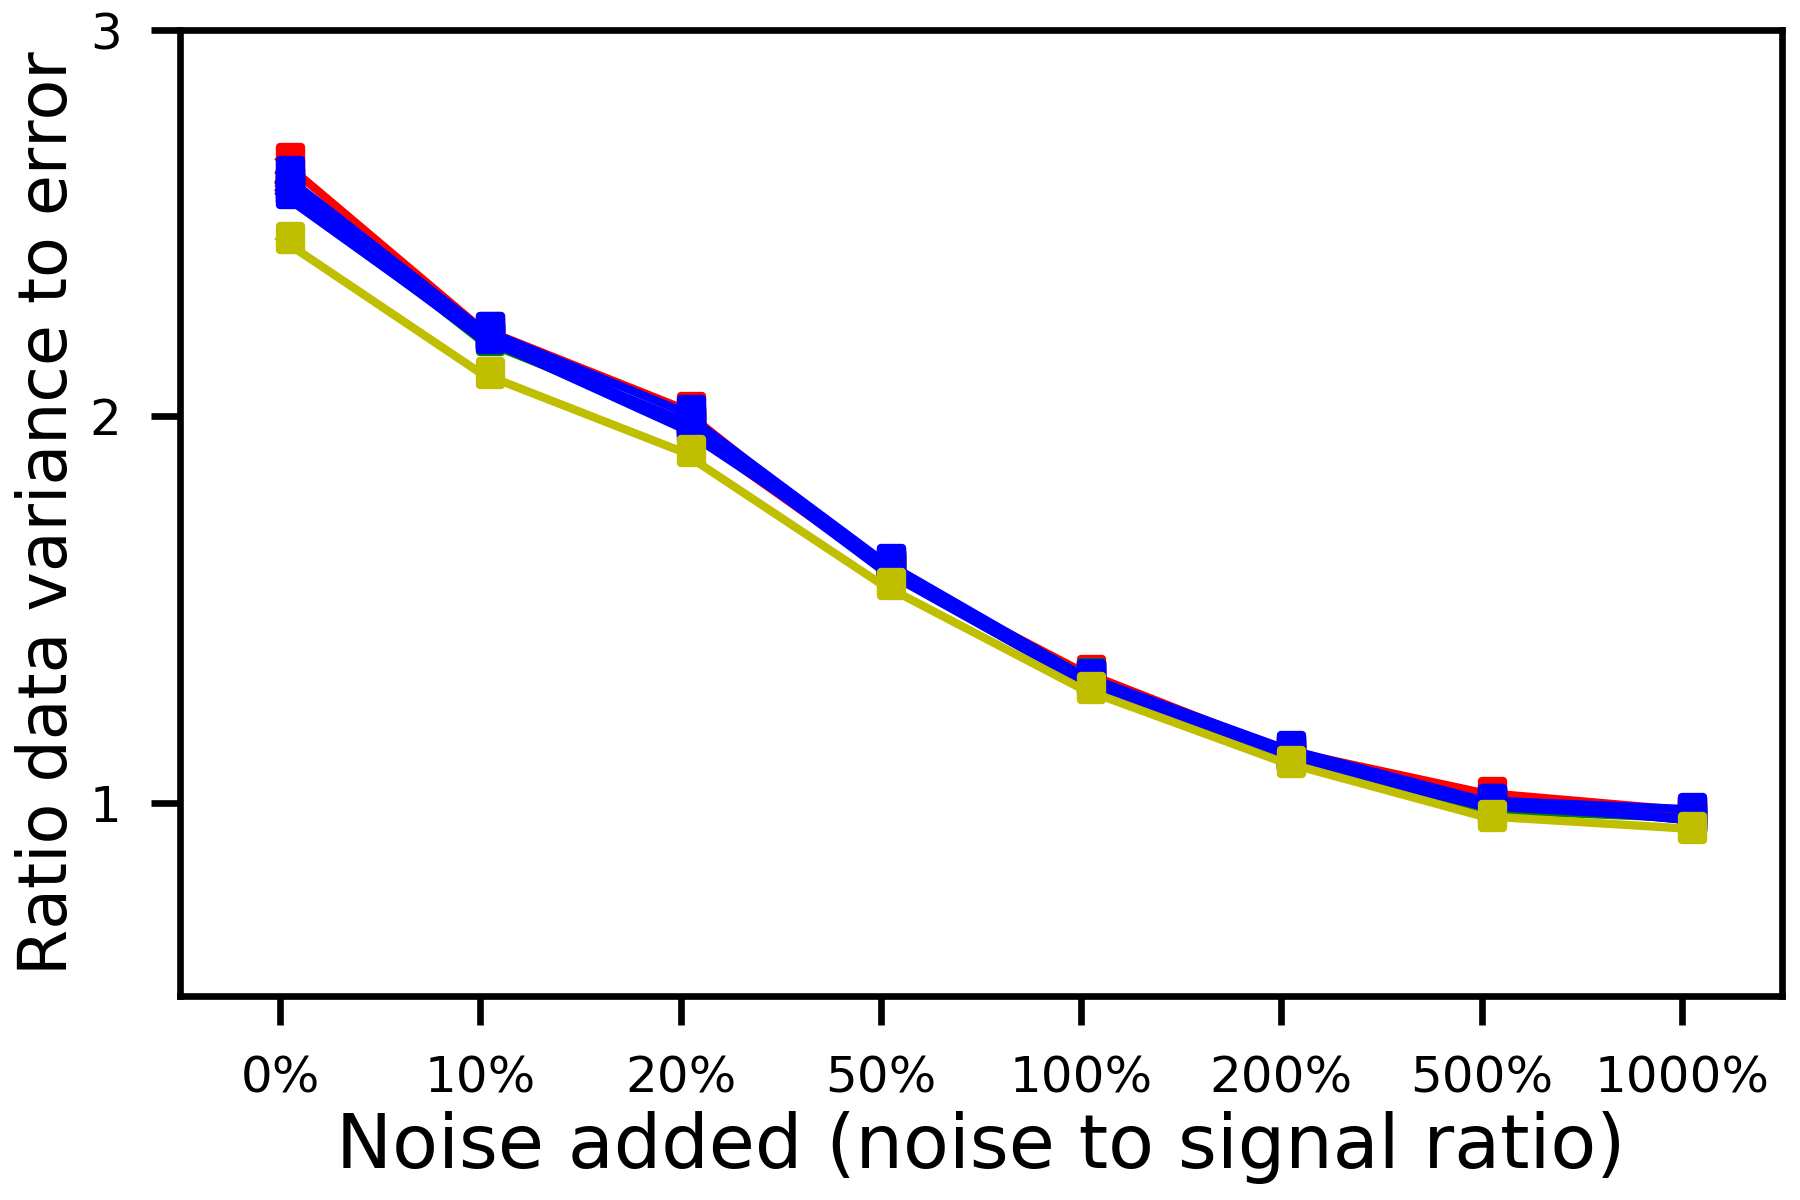
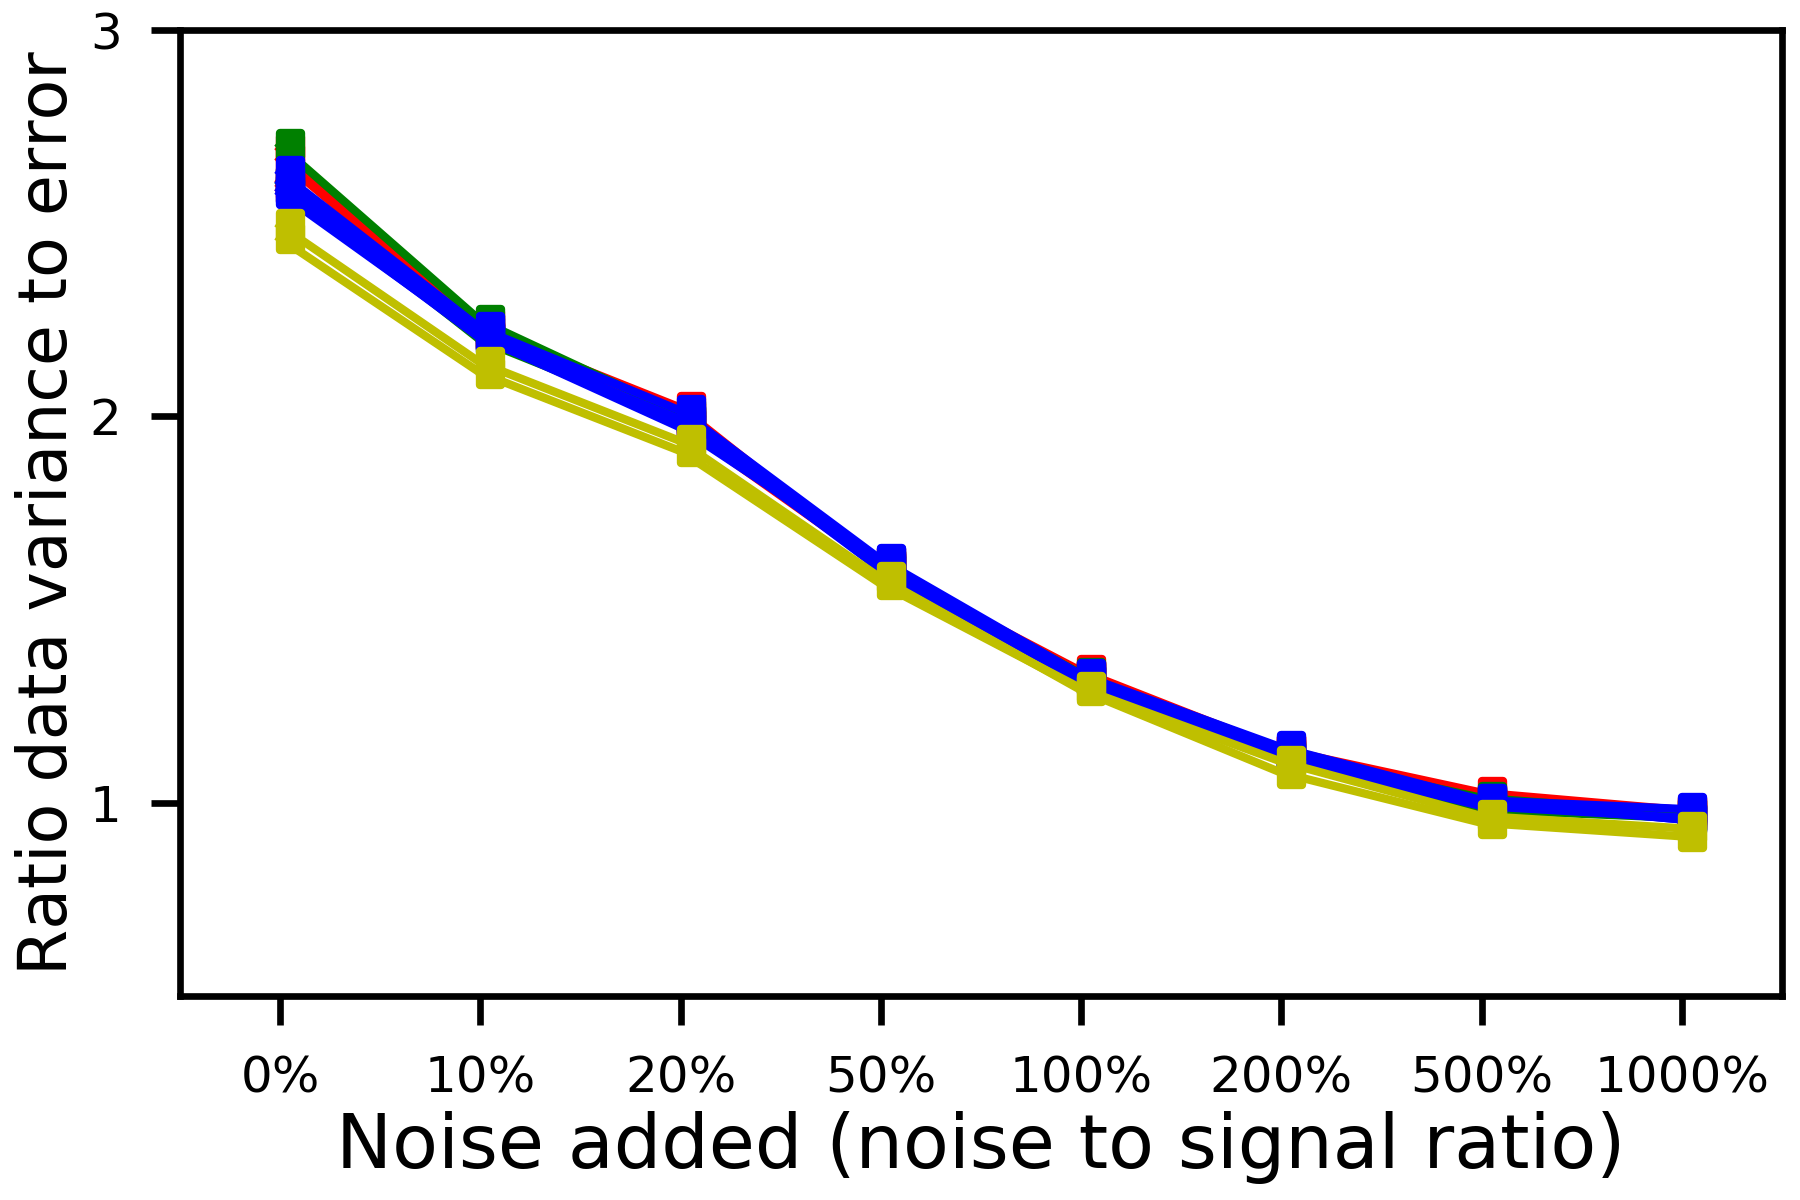
Finished running noise experiments on GDSC.

diff --git a/experiments/noise/drug_sensitivity_gdsc/plots/plot_noise_bar.py b/experiments/noise/drug_sensitivity_gdsc/plots/plot_noise_bar.py
@@ -34,30 +34,30 @@ ggg = eval(open(folder_results+'performances_gaussian_gaussian.txt','r').read())
 gggu = eval(open(folder_results+'performances_gaussian_gaussian_univariate.txt','r').read())
 gggw = eval(open(folder_results+'performances_gaussian_gaussian_wishart.txt','r').read())
 ggga = eval(open(folder_results+'performances_gaussian_gaussian_ard.txt','r').read())
-#gvg = eval(open(folder_results+'performances_gaussian_gaussian_volumeprior.txt','r').read())
-#gvng = eval(open(folder_results+'performances_gaussian_gaussian_volumeprior_nonnegative.txt','r').read())
+gvg = eval(open(folder_results+'performances_gaussian_gaussian_volumeprior.txt','r').read())
+gvng = eval(open(folder_results+'performances_gaussian_gaussian_volumeprior_nonnegative.txt','r').read())
 geg = eval(open(folder_results+'performances_gaussian_gaussian_exponential.txt','r').read())
 gee = eval(open(folder_results+'performances_gaussian_exponential.txt','r').read())
 geea = eval(open(folder_results+'performances_gaussian_exponential_ard.txt','r').read())
 gtt = eval(open(folder_results+'performances_gaussian_truncatednormal.txt','r').read())
 gttn = eval(open(folder_results+'performances_gaussian_truncatednormal_hierarchical.txt','r').read())
 pgg = eval(open(folder_results+'performances_poisson_gamma.txt','r').read())
-#pggg = eval(open(folder_results+'performances_poisson_gamma_gamma.txt','r').read())
+pggg = eval(open(folder_results+'performances_poisson_gamma_gamma.txt','r').read())
 
 performances_names_colours_linestyles_markers = [
     (ggg,  'GGG',  'r', '-', '.'),#'1'),
     (gggu, 'GGGU', 'r', '-', '.'),#'2'),
     (gggw, 'GGGW', 'r', '-', '.'),#'3'),
     (ggga, 'GGGA', 'r', '-', '.'),#'4'),
-#    (gvg,  'GVG',  'r', '-', '.'),#'5'),
+    (gvg,  'GVG',  'r', '-', '.'),#'5'),
     (geg,  'GEG',  'g', '-', '.'),#'1'),
-#    (gvng, 'GVnG', 'g', '-', '.'),#'2'),
+    (gvng, 'GVnG', 'g', '-', '.'),#'2'),
     (gee,  'GEE',  'b', '-', '.'),#'1'),
     (geea, 'GEEA', 'b', '-', '.'),#'2'),
     (gtt,  'GTT',  'b', '-', '.'),#'3'),
     (gttn, 'GTTN', 'b', '-', '.'),#'4'),
     (pgg,  'PGG',  'y', '-', '.'),#'1'),
-#    (pggg, 'PGGG', 'y', '-', '.'),#'2'),
+    (pggg, 'PGGG', 'y', '-', '.'),#'2'),
 ]
 
 

diff --git a/experiments/noise/drug_sensitivity_gdsc/plots/plot_noise_graph.py b/experiments/noise/drug_sensitivity_gdsc/plots/plot_noise_graph.py
@@ -32,30 +32,30 @@ ggg = eval(open(folder_results+'performances_gaussian_gaussian.txt','r').read())
 gggu = eval(open(folder_results+'performances_gaussian_gaussian_univariate.txt','r').read())
 gggw = eval(open(folder_results+'performances_gaussian_gaussian_wishart.txt','r').read())
 ggga = eval(open(folder_results+'performances_gaussian_gaussian_ard.txt','r').read())
-#gvg = eval(open(folder_results+'performances_gaussian_gaussian_volumeprior.txt','r').read())
-#gvng = eval(open(folder_results+'performances_gaussian_gaussian_volumeprior_nonnegative.txt','r').read())
+gvg = eval(open(folder_results+'performances_gaussian_gaussian_volumeprior.txt','r').read())
+gvng = eval(open(folder_results+'performances_gaussian_gaussian_volumeprior_nonnegative.txt','r').read())
 geg = eval(open(folder_results+'performances_gaussian_gaussian_exponential.txt','r').read())
 gee = eval(open(folder_results+'performances_gaussian_exponential.txt','r').read())
 geea = eval(open(folder_results+'performances_gaussian_exponential_ard.txt','r').read())
 gtt = eval(open(folder_results+'performances_gaussian_truncatednormal.txt','r').read())
 gttn = eval(open(folder_results+'performances_gaussian_truncatednormal_hierarchical.txt','r').read())
 pgg = eval(open(folder_results+'performances_poisson_gamma.txt','r').read())
-#pggg = eval(open(folder_results+'performances_poisson_gamma_gamma.txt','r').read())
+pggg = eval(open(folder_results+'performances_poisson_gamma_gamma.txt','r').read())
 
 performances_names_colours_linestyles_markers = [
     (ggg,  'GGG',  'r', '-', '.'),#'1'),
     (gggu, 'GGGU', 'r', '-', '.'),#'2'),
     (gggw, 'GGGW', 'r', '-', '.'),#'3'),
     (ggga, 'GGGA', 'r', '-', '.'),#'4'),
-#    (gvg,  'GVG',  'r', '-', '.'),#'5'),
+    (gvg,  'GVG',  'r', '-', '.'),#'5'),
     (geg,  'GEG',  'g', '-', '.'),#'1'),
-#    (gvng, 'GVnG', 'g', '-', '.'),#'2'),
+    (gvng, 'GVnG', 'g', '-', '.'),#'2'),
     (gee,  'GEE',  'b', '-', '.'),#'1'),
     (geea, 'GEEA', 'b', '-', '.'),#'2'),
     (gtt,  'GTT',  'b', '-', '.'),#'3'),
     (gttn, 'GTTN', 'b', '-', '.'),#'4'),
     (pgg,  'PGG',  'y', '-', '.'),#'1'),
-#    (pggg, 'PGGG', 'y', '-', '.'),#'2'),
+    (pggg, 'PGGG', 'y', '-', '.'),#'2'),
 ]
 
 
